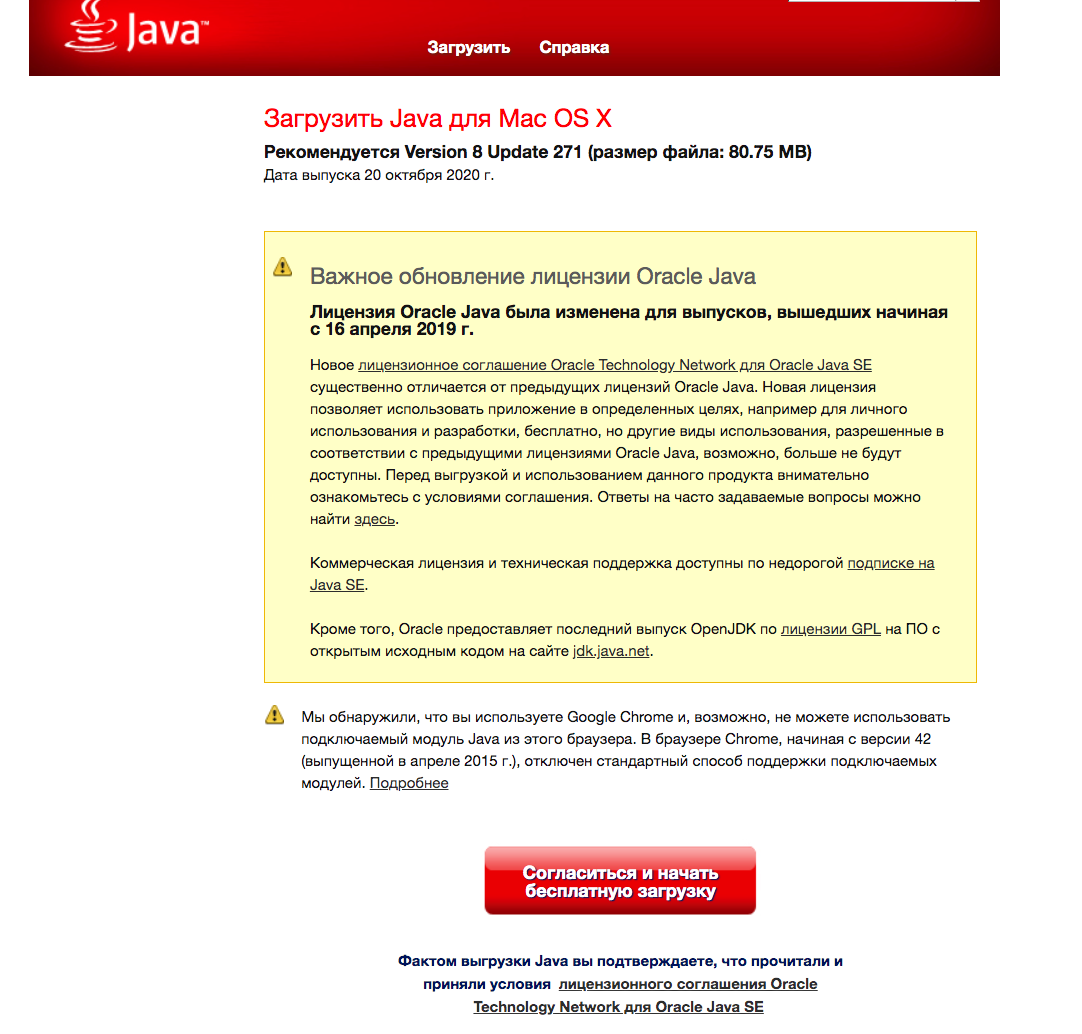
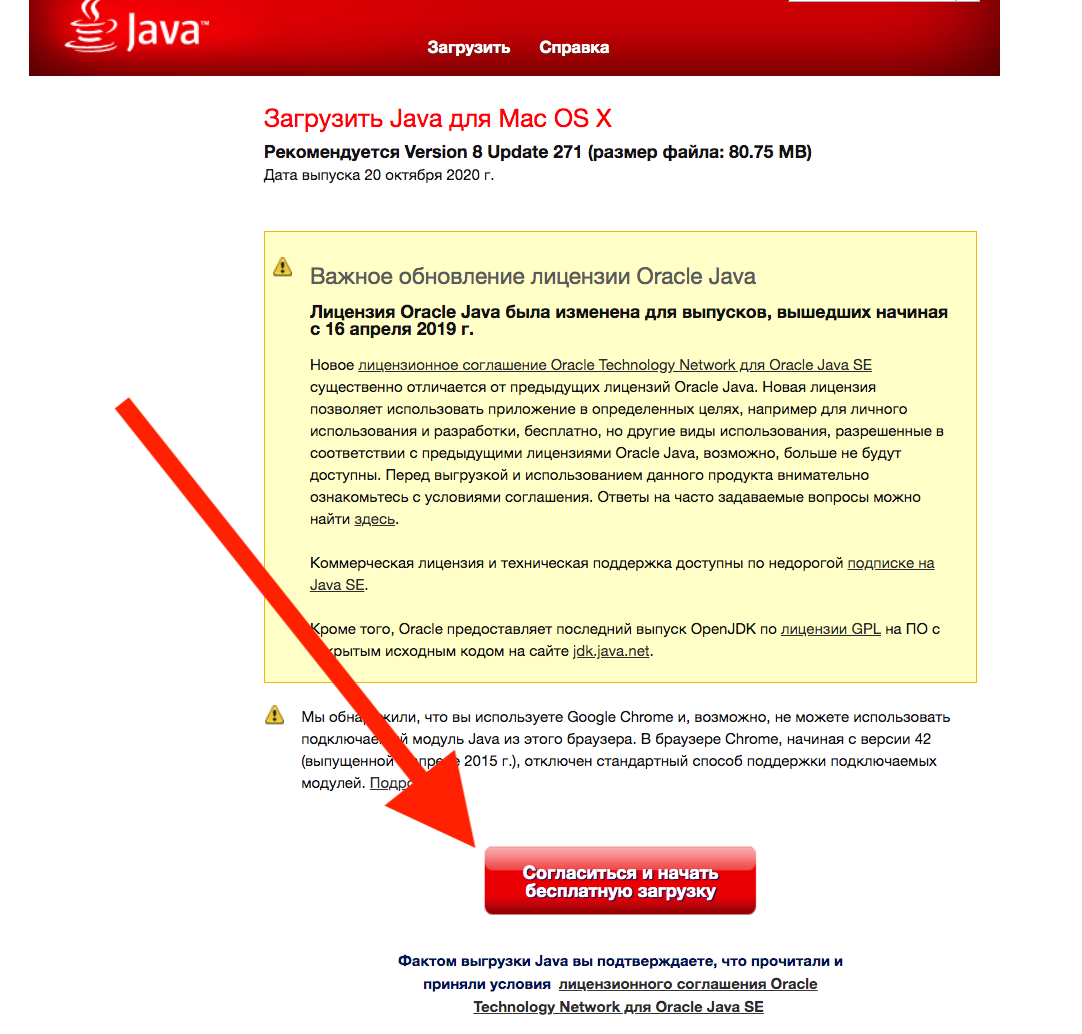
adiing gephi installation instruction

Changed region(s): [[0.122, 0.4023, 0.4575, 0.8356], [0.0915, 0.3714, 0.122, 0.4023]]

diff --git a/networks/install_gephi.md b/networks/install_gephi.md
@@ -8,15 +8,36 @@
 
 [!installing_gephi](installing_gephi.jpg)
 
-3. Теперь у вас установлена Gephi и есть ее иконка. Попробуй
+3. Теперь у вас установлена Gephi и есть ее иконка. Попробуйте запустить:
 
-[!gephi_icon](.png)
+[!gephi_icon](gephi_icon.png)
 
-Если не получилось установить по [этой инструкции](https://www.dropbox.com/s/r5teusmm11c2b2l/%D0%A3%D1%81%D1%82%D0%B0%D0%BD%D0%BE%D0%B2%D0%BA%D0%B0%20Gephi.pdf?dl=0), попробуйте вот эту. Там в конце есть шаманство с конфигами Gephi. 
+4. Вероятно, он вместо запуска пожаловался, что нужна Java 1.8. or higher (если не пожаловался, а запустился — все хорошо, успех, больше ничего не надо)
+
+[!java_fail](java_fail.png)
+
+5. Поэтому установите Java с [сайта Java](https://www.java.com/ru/download/)
+
+[!install_java](install_java.png)
+
+6. Попробуйте запустить Gephi еще раз. Должно произойти такое:
+
+[!gephi_launching](gephi_launching.png)
+
+[!gephi_greeting](gephi_greeting.png)
+
+[!gephi_running](gephi_running.png)
+
+7. Если не получилось — перезагрузитесь и попробуйте запустить еще раз. 
+
+Если все равно не получилось установить по [этой инструкции](https://www.dropbox.com/s/r5teusmm11c2b2l/%D0%A3%D1%81%D1%82%D0%B0%D0%BD%D0%BE%D0%B2%D0%BA%D0%B0%20Gephi.pdf?dl=0), попробуйте вот эту. Там в конце есть шаманство с конфигами Gephi. 
 
 Еще ссылки в помощь: 
 
-1. Страница об установке и обучении на сайте Gephi (довольно полезная, и там тоже есть про Java)
-2. Туториалы от создателей Gephi: 
-	1. quickstart
-	2. визуализация
+1. [Страница об установке на сайте Gephi](https://gephi.org/users/install/) — довольно полезная, и там тоже есть про Java
+2. [Обучение Gephi на сайте Gephi](https://gephi.org/users/) Там есть неплохие туториалы от создателей Gephi: 
+	1. [quickstart в Gephi](https://gephi.org/users/quick-start/)
+	2. [визуализация сети](https://gephi.org/users/tutorial-visualization/)
+	3. [укладка сети на плоскости](https://gephi.org/users/tutorial-layouts/)
+
+Т.к. в России блочится слайдшер (победа роскомнадзора над здравым смыслом), лучше сразу там качайте PDF-ы
